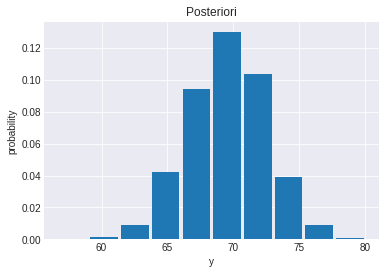
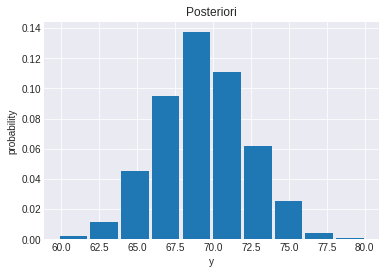
Update docs, fix bug

diff --git a/_build/html/searchindex.js b/_build/html/searchindex.js
@@ -1,1 +1,1 @@
-Search.setIndex({docnames:["README","cover","stan__quick_references"],envversion:{"sphinx.domains.c":2,"sphinx.domains.changeset":1,"sphinx.domains.citation":1,"sphinx.domains.cpp":4,"sphinx.domains.index":1,"sphinx.domains.javascript":2,"sphinx.domains.math":2,"sphinx.domains.python":3,"sphinx.domains.rst":2,"sphinx.domains.std":2,"sphinx.ext.intersphinx":1,sphinx:56},filenames:["README.md","cover.md","stan__quick_references.ipynb"],objects:{},objnames:{},objtypes:{},terms:{"0":2,"05":[],"0j":[],"0m":[],"0s":[],"10":2,"100":2,"1000":2,"11":[],"110":[],"111":[],"12":2,"121":[],"126":[],"13":[],"14":[],"14987269246436":[],"15":2,"153":[],"15697981990746":[],"16":[],"17":[],"18":[],"19":[],"195":[],"196":[],"1a":[],"1mstanc":[],"1s":[],"20":[],"2000":[],"201":[],"21":[],"22":[],"23":[],"24":[],"248":[],"25":[],"28":[],"28212079041822":[],"284":[],"2s":[],"307":2,"31":2,"310":[],"32":2,"321":[],"323":[],"329":[],"32mbuild":[],"32msampl":[],"34":[],"340":[],"35":[],"36":[],"36m":[],"36mbuild":[],"36mmessag":[],"36msampl":[],"37":[],"3i":2,"3s":[],"4000":[],"42":[],"44":[],"45":[],"46":[],"47":[],"485":[],"4e":[],"4s":[],"50":[],"51944633163701":2,"53":[],"55":[],"56":[],"565":[],"57":[],"59":[],"5e":[],"5s":[],"6":[],"60":2,"6000":[],"62":[],"63":[],"64":2,"68":[],"69":2,"6s":[],"7":[],"70":2,"70713134327357":2,"74":[],"75":[],"77":2,"79":[],"7s":[],"8":2,"8000":[],"83":[],"88":[],"8e":[],"8s":[],"9":2,"91":[],"94":2,"95":[],"96826713772197":[],"9s":[],"\u00e9":2,"boolean":2,"byte":2,"case":2,"class":[],"const":[],"default":2,"est\u00e1":2,"function":2,"import":2,"int":2,"long":[],"n\u00e3o":2,"p\u00e1gina":2,"par\u00e2metro":2,"return":2,"static":2,"true":2,"v\u00e1ri\u00e1vel":2,"vari\u00e1vel":2,"vers\u00e3o":2,"void":[],And:2,For:2,If:2,In:[],It:2,No:2,Not:2,The:2,There:2,To:2,_rh:[],accordingli:[],accuraci:2,adjust:[],affin:2,aid:2,aka:[],all:2,alloc:[],alpha:2,an:2,ani:2,anonym:[],anoth:2,ant:2,appli:2,ar:2,arena_alloc:[],arena_vec:[],arena_x_v:[],argument:2,arrai:2,arraywrapp:[],assign:[],assign_varmat:[],auto:[],automaticali:2,b:2,basic_ostream:[],bay:[],bayesian:[],been:2,befor:2,bernoulli_logit_glm_log:[],bernoulli_logit_glm_lpmf:[],beta_log:[],beta_lpdf:[],beta_proportion_log:[],beta_proportion_lpdf:[],bit:2,block:2,block_:[],bool:[],both:2,bound:2,build:2,c:2,cach:[],call:2,can:2,cauchy_log:[],cauchy_lpdf:[],check:2,check_2f1_converg:[],check_not_nan:[],choleski:2,cholesky_decompos:[],cholesky_factor_constrain:[],cholesky_factor_corr:2,cholesky_factor_cov:2,code:2,colsatcompiletim:[],column:2,comando:2,compar:[],comparison:2,compil:2,complex_matrix:2,complex_row_vector:2,complex_vector:2,compon:2,cond:2,conditional_t:[],consid:[],constant:2,constrain:2,constraint:2,constructor:[],contain:2,content:2,core:[],corr_matrix:2,correl:2,could:2,cov_matrix:2,covari:2,cpp:[],czxgibzg:[],dado:2,darkgrid:2,data1:2,de:2,decim:2,decltyp:[],defin:2,definida:2,definit:2,densiti:2,depend:2,diagon:2,differ:[],digit:2,dimension:2,dirichlet_log:[],dirichlet_lpdf:[],doc:[],don:2,done:[],doubl:[],double_exponential_log:[],double_exponential_lpdf:[],dure:[],dynam:[],effici:2,eigen:[],eigenbas:[],eigmat:[],elementwise_check:[],els:2,enable_if_t:[],equival:2,err:[],erro:2,error:2,ess:2,essa:2,estrutura:2,evalu:[],ever:2,everi:2,exampl:2,exclud:2,exist:2,expect:[],exponenti:2,express:2,f:[],factor:2,fals:2,file:2,flag:2,flatten:2,foi:2,foral:2,forc:2,format:2,frechet_cdf:[],from:2,fun:[],gener:2,generalized_invers:[],get_imag:2,get_real:2,gradient:[],great:2,ha:2,have:2,help:2,here:[],hist:2,home:[],hpp:[],html:[],http:[],httpstan:[],httpstan_xqnjfb7o:[],i:2,idx_t:[],ignor:2,im:2,imaginari:2,include_alpha:2,indent:2,index:[],index_multi:[],index_type_t:[],infer:2,infinit:2,instanc:2,instanti:[],integ:2,intern:2,io:[],is_integr:[],is_vector:[],isvectoratcompiletim:[],jacobian__:[],l:[],label:2,lambda:[],larger:2,lb:2,leapfrog:[],len:2,length:2,lib:[],like:2,limit:2,line:2,linearaccessbit:[],local:[],local_scalar_t__:[],log_p:2,log_prob:[],log_prob_impl:[],lower:2,lub_constrain:[],m:[],made:2,mai:[],make:2,map:[],mat1:[],mat2:[],math:[],mathbb:2,mathcal:2,matplotlib:2,matric:2,matrix:[],matrixxd:[],max:2,mc:[],mean:2,medida:2,member:[],min:2,model:2,model_base_crtp:[],model_czxgibzg:[],model_czxgibzg_namespac:[],model_data1:2,model_head:[],more:2,mu:2,multi_normal_cholesky_log:[],multi_normal_cholesky_lpdf:[],multipli:2,my:2,n:2,na:2,need:2,neg:2,negative_infinti:2,nest_asyncio:2,norm:2,normal:2,normal_lpdf:[],np:2,num_chain:2,num_sampl:2,number:2,numpi:2,object:2,observ:2,observada:2,offset:2,onli:2,oper:2,option:2,order:2,ordered_logistic_log:[],ordered_logistic_lpmf:[],org:[],ostream:[],output:2,own:2,p:2,packag:[],pair:[],pair_typ:[],panda:2,paramet:2,partials_return_typ:[],pd:2,per:[],phi:2,plain_type_t:[],plain_x_arrai:[],plt:2,point:2,poisson_log_glm_log:[],poisson_log_glm_lpmf:[],pos__:[],posit:2,positive_infin:2,positive_ord:2,posteriori:2,postion:2,precis:2,prim:[],print:2,prob:[],probabl:2,process:2,product:2,profil:[],programm:2,project:[],promot:2,propag:2,propto:[],propto__:[],provid:2,pyplot:2,pystan:2,python3:[],quantiti:2,que:2,quick:0,r:2,re:2,rea:2,real:2,receiv:2,refer:0,replac:2,requir:[],require_all_not_nonscalar_prim_or_rev_kernel_expression_t:[],require_eigen_t:[],require_std_vector_t:[],require_vector_like_t:[],require_vector_like_vt:[],rescal:[],result:2,results_data1:2,results_data1_mu:2,results_data1_sigma:2,return_type_t:[],rev:[],rho:2,rm:2,rodar:2,rodolpho:[],row:2,row_vector:2,row_vector_partials_t:[],rowsatcompiletim:[],rv:2,rwidth:2,s:2,sampl:2,scalar_type_t:[],scale:[],scipi:2,seaborn:2,second:[],section:[],see:[],set:2,should:2,show:2,sigma:2,signed:[],simpl:2,simplex:2,site:[],size:[],size_t:[],skew_double_exponential_lpdf:[],slightli:2,soft:2,sr2:2,stan_data1:2,stat:2,std:[],step:[],stride:[],strong:2,struct:[],structur:2,style:2,suggest:[],symmetr:2,t1:[],t2:[],t:2,t_:[],t_a:[],t_alpha:[],t_alpha_v:[],t_b:[],t_beta:[],t_covar:[],t_cut:[],t_job_param:[],t_l:[],t_loc:[],t_n:[],t_param:[],t_partials_arrai:[],t_partials_matrix:[],t_partials_return:[],t_partials_return_kappa:[],t_partials_vec:[],t_prec:[],t_prior_siz:[],t_prob:[],t_scalar:[],t_scale:[],t_scale_fail:[],t_scale_succ:[],t_shape:[],t_shared_param:[],t_sigma:[],t_skew:[],t_t0:[],t_t:[],t_theta:[],t_x:[],t_y0:[],t_y:[],t_y_val:[],tail:[],take:[],than:2,them:2,theoric:2,thi:2,three:2,time:2,titl:2,tmp:[],took:[],top:2,trait:[],transform:2,transform_inits_impl:[],transit:[],transpos:2,triangular:2,two:2,typedef:[],typenam:[],u:[],unconstrain:2,unit:2,unsign:[],until:2,upper:2,us:2,valu:2,value_t:[],value_typ:[],value_type_t:[],var_context:[],var_valu:[],variabl:[],varmat:[],veci:[],vecr:[],vector:[],vector_partials_t:[],vectorxd:[],vecvar:[],warn:[],we:2,would:[],writer:2,wsign:[],wunus:[],x:2,xlabel:2,y:2,ylabel:2,your:[],z:2},titles:["Stan","Stan","Stan -  Reference Manual"],titleterms:{"1":2,"2":2,"3":2,"4":2,"5":2,"char":2,comment:2,complex:2,data:2,datatyp:2,declar:2,includ:2,manual:2,matrix:2,numer:2,overview:2,primit:2,refer:2,scalar:2,stan:[0,1,2],type:2,variabl:2,vector:2,whitespac:2}})
+Search.setIndex({docnames:["README","cover","stan__quick_references"],envversion:{"sphinx.domains.c":2,"sphinx.domains.changeset":1,"sphinx.domains.citation":1,"sphinx.domains.cpp":4,"sphinx.domains.index":1,"sphinx.domains.javascript":2,"sphinx.domains.math":2,"sphinx.domains.python":3,"sphinx.domains.rst":2,"sphinx.domains.std":2,"sphinx.ext.intersphinx":1,sphinx:56},filenames:["README.md","cover.md","stan__quick_references.ipynb"],objects:{},objnames:{},objtypes:{},terms:{"0":2,"10":2,"100":2,"1000":2,"12":2,"15":2,"307":2,"31":2,"32":2,"34694533264366":2,"3i":2,"60":2,"64":2,"69":2,"70":2,"71442871378558":2,"77":2,"8":2,"9":2,"96":2,"\u00e9":2,"boolean":2,"byte":2,"case":2,"default":2,"est\u00e1":2,"function":2,"import":2,"int":2,"n\u00e3o":2,"p\u00e1gina":2,"par\u00e2metro":2,"return":2,"static":2,"true":2,"v\u00e1ri\u00e1vel":2,"vari\u00e1vel":2,"vers\u00e3o":2,And:2,For:2,If:2,It:2,No:2,Not:2,The:2,There:2,To:2,accuraci:2,affin:2,aid:2,all:2,alpha:2,an:2,ani:2,anoth:2,ant:2,appli:2,ar:2,argument:2,arrai:2,automaticali:2,b:2,been:2,befor:2,bit:2,block:2,both:2,bound:2,build:2,c:2,call:2,can:2,check:2,choleski:2,cholesky_factor_corr:2,cholesky_factor_cov:2,code:2,column:2,comando:2,comparison:2,compil:2,complex_matrix:2,complex_row_vector:2,complex_vector:2,compon:2,cond:2,constant:2,constrain:2,constraint:2,contain:2,content:2,corr_matrix:2,correl:2,could:2,cov_matrix:2,covari:2,dado:2,darkgrid:2,data1:2,de:2,decim:2,defin:2,definida:2,definit:2,densiti:2,depend:2,diagon:2,digit:2,dimension:2,don:2,effici:2,els:2,equival:2,erro:2,error:2,ess:2,essa:2,estrutura:2,ever:2,everi:2,exampl:2,exclud:2,exist:2,exponenti:2,express:2,factor:2,fals:2,file:2,flag:2,flatten:2,foi:2,foral:2,forc:2,format:2,from:2,gener:2,get_imag:2,get_real:2,great:2,ha:2,have:2,help:2,hist:2,i:2,ignor:2,im:2,imaginari:2,include_alpha:2,indent:2,infer:2,infinit:2,instanc:2,integ:2,intern:2,label:2,larger:2,lb:2,len:2,length:2,like:2,limit:2,line:2,log_p:2,lower:2,made:2,make:2,mathbb:2,mathcal:2,matplotlib:2,matric:2,max:2,mean:2,medida:2,min:2,model:2,model_data1:2,more:2,mu:2,multipli:2,my:2,n:2,na:2,need:2,neg:2,negative_infinti:2,nest_asyncio:2,norm:2,normal:2,np:2,num_chain:2,num_sampl:2,number:2,numpi:2,object:2,observ:2,observada:2,offset:2,onli:2,oper:2,option:2,order:2,output:2,own:2,p:2,panda:2,paramet:2,pd:2,phi:2,plt:2,point:2,posit:2,positive_infin:2,positive_ord:2,posteriori:2,postion:2,precis:2,print:2,probabl:2,process:2,product:2,programm:2,promot:2,propag:2,provid:2,pyplot:2,pystan:2,quantiti:2,que:2,quick:0,r:2,re:2,rea:2,real:2,receiv:2,refer:0,replac:2,result:2,results_data1:2,results_data1_mu:2,results_data1_sigma:2,rho:2,rm:2,rodar:2,row:2,row_vector:2,rv:2,rwidth:2,s:2,sampl:2,scipi:2,seaborn:2,set:2,should:2,show:2,sigma:2,simpl:2,simplex:2,slightli:2,soft:2,sr2:2,stan_data1:2,stat:2,strong:2,structur:2,style:2,symmetr:2,t:2,than:2,them:2,theoric:2,thi:2,three:2,time:2,titl:2,top:2,transform:2,transpos:2,triangular:2,two:2,unconstrain:2,unit:2,until:2,upper:2,us:2,valu:2,we:2,writer:2,x:2,xlabel:2,y:2,ylabel:2,z:2},titles:["Stan","Stan","Stan -  Reference Manual"],titleterms:{"1":2,"2":2,"3":2,"4":2,"5":2,"char":2,comment:2,complex:2,data:2,datatyp:2,declar:2,includ:2,manual:2,matrix:2,numer:2,overview:2,primit:2,refer:2,scalar:2,stan:[0,1,2],type:2,variabl:2,vector:2,whitespac:2}})

diff --git a/_build/html/stan__quick_references.html b/_build/html/stan__quick_references.html
@@ -342,8 +342,8 @@
 </div>
 </div>
 <div class="cell_output docutils container">
-<div class="output stream highlight-myst-ansi notranslate"><div class="highlight"><pre><span></span>Inference of mu:  69.51944633163701  - Real value:  70
-Inference of sigma:  94.70713134327357  - Real value:  100
+<div class="output stream highlight-myst-ansi notranslate"><div class="highlight"><pre><span></span>Inference of mu:  69.34694533264366  - Real value:  70
+Inference of sigma:  96.71442871378558  - Real value:  100
 </pre></div>
 </div>
 <img alt="_images/stan__quick_references_5_1.png" src="_images/stan__quick_references_5_1.png" />
